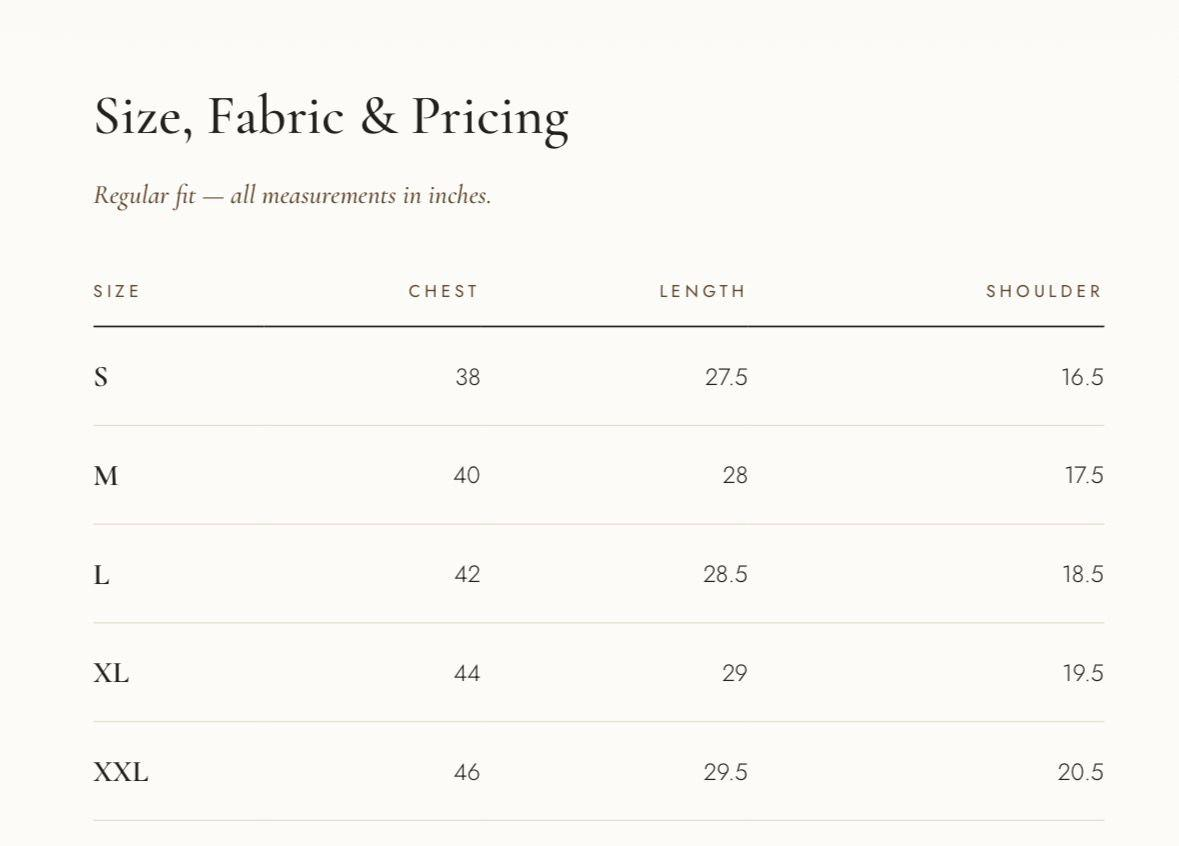
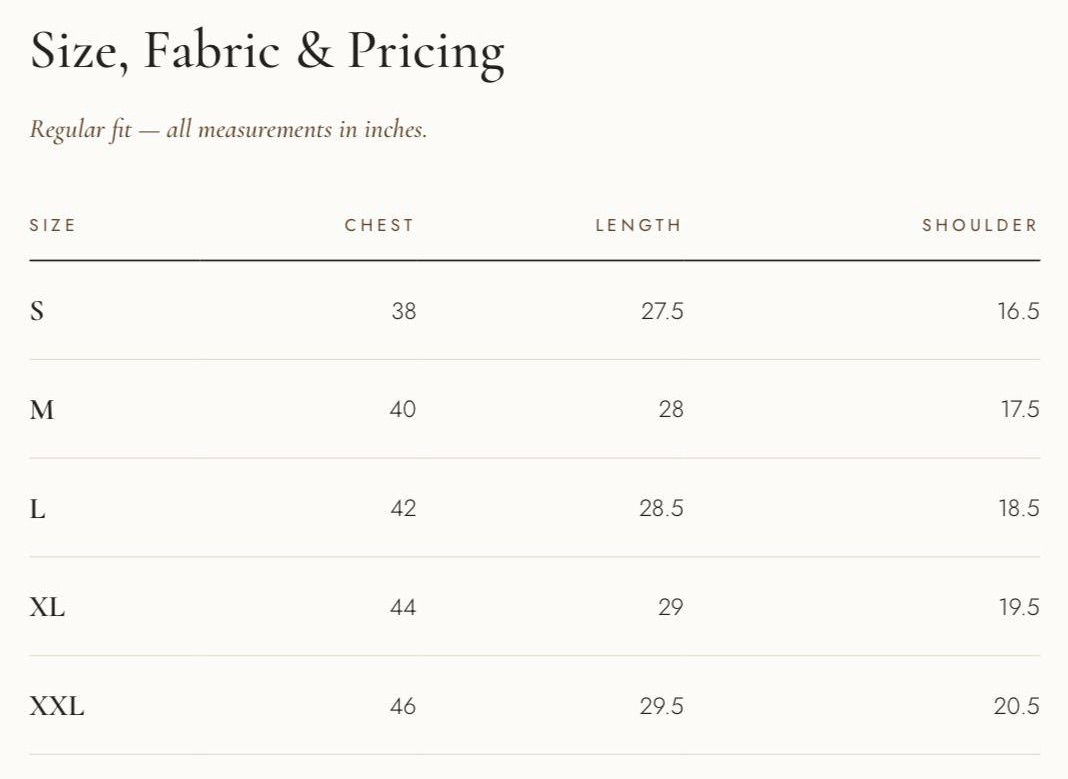
fix(size-guide): trim the chart's blank margins so the table reads larger
The client asked to "make it little zoom", "from the edges", circling the
empty corner of the artwork. The chart carried 88px of blank left margin,
90px top, 71px right and 25px bottom, so the table itself filled only 86%
of the image width and rendered smaller than the frame allowed.

Measured the ink bounds off a canvas rather than eyeballing a crop: the
content runs x 88-1107, y 90-820 against a 251,250,246 background. Cropped
to that box plus an even 24px on every side, which is 1068x779. The table
now fills 95.5% of the width, so it renders about a tenth larger in the
same frame with the margins finally even.

The frame's aspect ratio follows the new dimensions, otherwise
object-contain would letterbox what the crop just recovered.

sips re-encodes on crop, and its best setting quadrupled the file to
127KB. Settled on quality 80 at 55KB. Lower settings were smaller but
JPEG ringing shows around glyphs on a text-heavy chart, and these are
measurements a customer orders against.

Verified against a local build: the cropped file measures 24/22/24/24
margins with no content clipped at any edge, and the image renders
1006x734 on desktop and 288x210 on an iPhone 16 Pro viewport, letterboxed
on neither.

diff --git a/app/size-guide/page.tsx b/app/size-guide/page.tsx
@@ -92,9 +92,9 @@ export default function SizeGuidePage() {
                 <CardContent className="p-6">
                   <div className="relative w-full">
                     <div className="bg-gray-50 rounded-lg p-4 mb-6">
-                      {/* Matches the artwork's own 1179x846 so object-contain
+                      {/* Matches the artwork's own 1068x779 so object-contain
                           has nothing to letterbox. */}
-                      <div className="relative w-full aspect-[1179/846] overflow-hidden rounded-lg">
+                      <div className="relative w-full aspect-[1068/779] overflow-hidden rounded-lg">
                         <Image
                           src="/hexhue-size-chart.jpg"
                           alt="Hex & Hue size chart: regular fit, chest, length and shoulder measurements in inches for sizes S to XXL"
